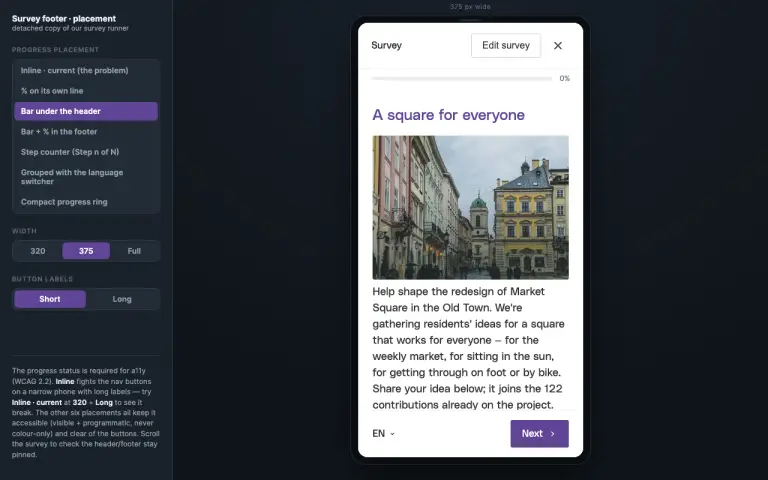
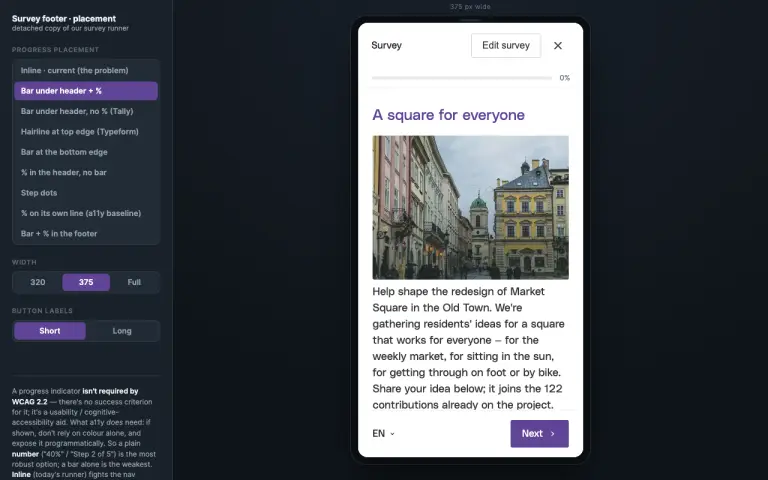
survey-form: rework progress-placement options + correct the WCAG claim
Drop the ring, step-counter and language-group placements. Keep inline (the
problem), % on its own line, bar-under-header (+%) and footbar. Add five: a
no-number bar under the header (Tally), a hairline at the top edge (Typeform),
a bar pinned to the card's bottom edge, the % in the header with no bar, and
discrete step dots (filled vs hollow, never colour-only; SR gets 'Step n of N').

Fix the bar-under-header separator: the hairline now sits BELOW the progress so
the title + bar read as one unit. Correct the note — a progress indicator is NOT
required by WCAG 2.2 (no SC); it's a usability/cognitive aid. If shown it must be
programmatic and not colour-only, so a plain number is the most robust option.

diff --git a/playground/survey-form/govocal-survey.css b/playground/survey-form/govocal-survey.css
@@ -390,63 +390,94 @@
     .sv-foot__ring::before { content: ""; grid-area: 1 / 1; width: 30px; height: 30px; border-radius: 50%; background: #fff; }
     .sv-foot__ring-num { grid-area: 1 / 1; z-index: 1; font-size: 10px; font-weight: 700; color: var(--gv-text-secondary); }
 
-    /* Step counter (step) ----------------------------------------------------- */
+    /* Step counter (reused as SR-only "Step n of N" text for the stepdots variant) -- */
     .sv-foot__step { font-size: var(--gv-fs-s); font-weight: 500; color: var(--gv-text-secondary); white-space: nowrap; }
 
+    /* Card-edge bar (typeform = top edge / bottomedge = bottom edge). Absolutely
+       positioned; the card's overflow:hidden clips it to the rounded corners. */
+    .sv-card { position: relative; }
+    .sv-edge { display: none; position: absolute; left: 0; right: 0; z-index: 5;
+      height: 3px; background: var(--gv-grey-200); }
+    .sv-edge__fill { display: block; height: 100%; width: 0; background: var(--gv-tenant-primary);
+      transition: width 220ms ease-out; }
+
+    /* Header numeral (headernum) — the % rides in the titlebar, no bar at all. */
+    .sv-titlebar__pct { display: none; flex: 0 0 auto; margin-left: 10px;
+      font-size: var(--gv-fs-s); font-weight: 600; color: var(--gv-text-secondary); white-space: nowrap; }
+
+    /* Step dots (stepdots) — discrete, fill-not-colour (done = filled, to-do = hollow)
+       so the state never rests on hue alone (1.4.1). SR users get the .sv-foot__step text. */
+    .sv-dots { display: none; flex: 0 0 auto; align-items: center; gap: 7px; padding: 12px 22px; }
+    .sv-dots__dot { width: 9px; height: 9px; border-radius: 50%; flex: 0 0 auto; box-sizing: border-box;
+      background: transparent; border: 1.5px solid var(--gv-grey-400); }
+    .sv-dots__dot.is-done { background: var(--gv-tenant-primary); border-color: var(--gv-tenant-primary); }
+
+    /* Visually-hidden helper — keeps a status readable to AT while a visual stands in. */
+    .sv-sr-only { position: absolute !important; width: 1px; height: 1px; padding: 0;
+      margin: -1px; overflow: hidden; clip: rect(0 0 0 0); white-space: nowrap; border: 0; }
+
     /* The base kit collapses the footer row into a full-width COLUMN at ≤480 (line ~249)
-       and reorders lang/pct. For the redesigned variants we want a real horizontal
+       and reorders lang/pct. For every redesigned variant we want a real horizontal
        action row that wraps only when it must, so re-assert row direction + explicit
-       child order. Specificity (0,2,0) beats the kit's media rule (0,1,0), no !important.
-       ('inline' is intentionally NOT listed — it keeps the kit's current mobile
-       behaviour so it still demonstrates the problem.) */
-    .sv-card[data-layout="stacked"]   .sv-foot__row,
-    .sv-card[data-layout="topbar"]    .sv-foot__row,
-    .sv-card[data-layout="footbar"]   .sv-foot__row,
-    .sv-card[data-layout="step"]      .sv-foot__row,
-    .sv-card[data-layout="langgroup"] .sv-foot__row,
-    .sv-card[data-layout="ring"]      .sv-foot__row {
+       child order. `[data-layout]:not([data-layout="inline"])` covers all variants (and
+       any future one) in one rule; specificity (0,4,0) beats the kit's media rule (0,1,0),
+       no !important. 'inline' is intentionally excluded — it keeps the kit's current
+       mobile behaviour so it still demonstrates the problem. */
+    .sv-card[data-layout]:not([data-layout="inline"]) .sv-foot__row {
       flex-direction: row; flex-wrap: wrap; align-items: center; row-gap: 12px;
     }
-    /* The language switcher is fixed-size in every variant; the nav group grows to the
-       right and wraps as a unit only when the row can't hold it. */
-    .sv-card[data-layout="stacked"]   .sv-foot__lang,
-    .sv-card[data-layout="topbar"]    .sv-foot__lang,
-    .sv-card[data-layout="footbar"]   .sv-foot__lang,
-    .sv-card[data-layout="step"]      .sv-foot__lang,
-    .sv-card[data-layout="langgroup"] .sv-foot__lang,
-    .sv-card[data-layout="ring"]      .sv-foot__lang { flex: 0 0 auto; order: 1; }
-    .sv-card[data-layout="stacked"]   .sv-foot__nav,
-    .sv-card[data-layout="topbar"]    .sv-foot__nav,
-    .sv-card[data-layout="footbar"]   .sv-foot__nav,
-    .sv-card[data-layout="step"]      .sv-foot__nav,
-    .sv-card[data-layout="langgroup"] .sv-foot__nav,
-    .sv-card[data-layout="ring"]      .sv-foot__nav {
+    .sv-card[data-layout]:not([data-layout="inline"]) .sv-foot__lang { flex: 0 0 auto; order: 1; }
+    .sv-card[data-layout]:not([data-layout="inline"]) .sv-foot__nav {
       flex: 1 1 auto; order: 9; justify-content: flex-end; flex-wrap: wrap; row-gap: 8px;
     }
 
-    /* 1 · stacked — % on its own centred line above the action row (real GoVocal). */
+    /* 1 · stacked — % on its own centred line above the action row (real GoVocal). This
+          plain-numeral placement is also the most accessible: a text % conveys progress
+          without any colour-only bar, which is all WCAG actually needs. */
     .sv-card[data-layout="stacked"] .sv-foot__pct { order: 0; flex: 0 0 100%; text-align: center; }
 
-    /* 2 · topbar — slim determinate bar under the header; footer holds only lang+nav.
-          Progress stays visible while the body scrolls (the header is pinned). */
-    .sv-card[data-layout="topbar"] .sv-hbar { display: flex; }
+    /* 2 · topbar — slim determinate bar + % under the header; footer holds only lang+nav.
+          The hairline reads BELOW the progress (the bar sits flush under the title), so
+          the title and its progress feel like one unit. Header stays pinned while scrolling. */
+    .sv-card[data-layout="topbar"] .sv-titlebar { border-bottom: 0; }
+    .sv-card[data-layout="topbar"] .sv-hbar { display: flex; border-bottom: 1px solid var(--gv-grey-200); }
     .sv-card[data-layout="topbar"] .sv-foot__pct { display: none; }
 
-    /* 3 · footbar — thin bar across the footer top + centred % caption, then actions.
-          Recolour the kit's gold accent to the tenant primary so it matches the
-          header-bar/ring variants and clears 1.4.11 non-text contrast on the grey track. */
+    /* 3 · footbar — thin bar across the footer top + centred % caption, then actions. */
     .sv-card[data-layout="footbar"] .sv-progress { display: block; }
     .sv-card[data-layout="footbar"] .sv-progress__bar { background: var(--gv-tenant-primary); }
     .sv-card[data-layout="footbar"] .sv-foot__pct { order: 0; flex: 0 0 100%; text-align: center; }
 
-    /* 4 · step — a "Step n of N" counter leads the row (shorter than %, always fits). */
-    .sv-card[data-layout="step"] .sv-foot__step { display: inline; order: 0; flex: 0 0 auto; }
-    .sv-card[data-layout="step"] .sv-foot__pct { display: none; }
+    /* 4 · tally — Tally's pattern: a full-bleed bar flush under the title, NO numeral,
+          hairline below. The bar alone signals progress (we keep the SR % via the
+          footer's role=progressbar siblings, so it's never colour-only for AT). */
+    .sv-card[data-layout="tally"] .sv-titlebar { border-bottom: 0; }
+    .sv-card[data-layout="tally"] .sv-hbar { display: flex; padding: 0; border-bottom: 1px solid var(--gv-grey-200); }
+    .sv-card[data-layout="tally"] .sv-hbar__track { height: 6px; border-radius: 0; }
+    .sv-card[data-layout="tally"] .sv-hbar__num { display: none; }
+    .sv-card[data-layout="tally"] .sv-foot__pct { display: none; }
 
-    /* 5 · langgroup — % rides next to the language switcher (left cluster), nav right.
-          Tying it to lang's width means it never competes with the buttons. */
-    .sv-card[data-layout="langgroup"] .sv-foot__pct { order: 2; flex: 0 0 auto; text-align: left; }
+    /* 5 · typeform — Typeform's pattern: a 3px hairline pinned to the very top edge of
+          the card, no numeral (Typeform dropped the % — it confused respondents). */
+    .sv-card[data-layout="typeform"] .sv-edge { display: block; top: 0; }
+    .sv-card[data-layout="typeform"] .sv-foot__pct { display: none; }
 
-    /* 6 · ring — a compact circular dial (numeral inside) leads the row; very small footprint. */
-    .sv-card[data-layout="ring"] .sv-foot__ring { display: grid; order: 0; }
-    .sv-card[data-layout="ring"] .sv-foot__pct { display: none; }
+    /* 6 · bottomedge — a thin bar pinned to the bottom edge of the card (mobile-native,
+          out of the way of both header and action row). */
+    .sv-card[data-layout="bottomedge"] .sv-edge { display: block; bottom: 0; height: 4px; }
+    .sv-card[data-layout="bottomedge"] .sv-foot__pct { display: none; }
+
+    /* 7 · headernum — just the numeral, in the titlebar next to the title. Answers
+          "would the number suffice?": yes — top-anchored, glanceable, zero footer cost. */
+    .sv-card[data-layout="headernum"] .sv-titlebar__pct { display: inline; }
+    .sv-card[data-layout="headernum"] .sv-foot__pct { display: none; }
+
+    /* 8 · stepdots — discrete dots under the header for short, known-length flows; the
+          "Step n of N" text is kept SR-only so assistive tech still hears the count. */
+    .sv-card[data-layout="stepdots"] .sv-dots { display: flex; }
+    .sv-card[data-layout="stepdots"] .sv-foot__step { display: inline; }
+    .sv-card[data-layout="stepdots"] .sv-foot__step,
+    .sv-card[data-layout="stepdots"] .sv-titlebar { border-bottom: 0; }
+    .sv-card[data-layout="stepdots"] .sv-foot__step { position: absolute !important; width: 1px; height: 1px;
+      padding: 0; margin: -1px; overflow: hidden; clip: rect(0 0 0 0); white-space: nowrap; border: 0; }
+    .sv-card[data-layout="stepdots"] .sv-foot__pct { display: none; }

diff --git a/playground/survey-form/govocal-survey.js b/playground/survey-form/govocal-survey.js
@@ -201,11 +201,17 @@
     var pbar = ' role="progressbar" aria-valuemin="0" aria-valuemax="100" aria-valuenow="0" aria-valuetext="0% complete"';
     return '<section class="sv-card" aria-label="' + esc(title || 'Survey') + '">' +
       '<div class="sv-titlebar"><h1>' + esc(title || 'Survey') + '</h1>' +
+      // Header numeral (headernum variant) — the % rides in the titlebar, no bar at all.
+      '<span class="sv-titlebar__pct" role="status" aria-live="polite" aria-atomic="true">0%</span>' +
       '<button class="sv-titlebar__edit" type="button">Edit survey</button>' +
       '<button class="sv-close" type="button" aria-label="Close survey">' +
       '<svg viewBox="0 0 24 24" aria-hidden="true"><path d="M19 6.41 17.59 5 12 10.59 6.41 5 5 6.41 10.59 12 5 17.59 6.41 19 12 13.41 17.59 19 19 17.59 13.41 12z"/></svg></button></div>' +
-      // Header progress bar (topbar variant) — pinned under the titlebar, stays visible while scrolling.
+      // Header progress bar (topbar / tally variants) — pinned under the titlebar, stays visible while scrolling.
       '<div class="sv-hbar"' + pbar + '><span class="sv-hbar__track"><span class="sv-hbar__fill"></span></span><span class="sv-hbar__num">0%</span></div>' +
+      // Card-edge hairline bar (typeform = top edge / bottomedge = bottom edge), absolutely positioned.
+      '<div class="sv-edge"' + pbar + '><span class="sv-edge__fill"></span></div>' +
+      // Discrete step dots (stepdots variant) — built in mount(); aria-hidden, SR uses .sv-foot__step.
+      '<div class="sv-dots" aria-hidden="true"></div>' +
       '<form class="sv-body" novalidate></form>' +
       '<div class="sv-foot">' +
       '<div class="sv-progress"' + pbar + '><div class="sv-progress__bar"></div></div>' +
@@ -239,6 +245,9 @@
         ringEl = root.querySelector('.sv-foot__ring'),
         ringNum = root.querySelector('.sv-foot__ring-num'),
         stepEl = root.querySelector('.sv-foot__step'),
+        edgeFill = root.querySelector('.sv-edge__fill'),
+        titlePct = root.querySelector('.sv-titlebar__pct'),
+        dotsEl = root.querySelector('.sv-dots'),
         progressbars = [].slice.call(root.querySelectorAll('[role="progressbar"]'));
     // Button labels are configurable (opts.labels) so a harness can stress-test how
     // long labels fit the footer at narrow widths. Defaults match the real runner.
@@ -248,6 +257,15 @@
     var step = 0, total = form.pages.length;
     var lastContent = total - 1;
     while (lastContent > 0 && form.pages[lastContent].kind === 'thankyou') lastContent--;
+
+    // Build the step dots once (one per content page) for the stepdots variant.
+    var dotSpans = [];
+    if (dotsEl) {
+      var dN = lastContent + 1, dh = '';
+      for (var di = 0; di < dN; di++) dh += '<span class="sv-dots__dot"></span>';
+      dotsEl.innerHTML = dh;
+      dotSpans = [].slice.call(dotsEl.children);
+    }
 
     function show() {
       var p = form.pages[step];
@@ -260,10 +278,16 @@
       pctEl.textContent = pctTxt;
       if (hbarFill) hbarFill.style.width = pct + '%';
       if (hbarNum) hbarNum.textContent = pct + '%';
+      if (edgeFill) edgeFill.style.width = pct + '%';
+      if (titlePct) titlePct.textContent = pct + '%';
       if (ringEl) { ringEl.style.setProperty('--p', pct); if (ringNum) ringNum.textContent = pct + '%'; }
+      var sNum = Math.min(step, lastContent) + 1, sTot = lastContent + 1;
       if (stepEl) {
-        var sNum = Math.min(step, lastContent) + 1, sTot = lastContent + 1;
         stepEl.textContent = (p.kind === 'thankyou') ? 'Complete' : ('Step ' + sNum + ' of ' + sTot);
+      }
+      if (dotSpans.length) {
+        var done = (p.kind === 'thankyou') ? dotSpans.length : sNum;
+        dotSpans.forEach(function (d, i) { d.classList.toggle('is-done', i < done); });
       }
       progressbars.forEach(function (el) { el.setAttribute('aria-valuenow', pct); el.setAttribute('aria-valuetext', pctTxt); });
       prevBtn.style.visibility = (step === 0 || p.kind === 'thankyou') ? 'hidden' : 'visible';

diff --git a/playground/survey-form/index.html b/playground/survey-form/index.html
@@ -123,13 +123,15 @@
     <div class="grp">
       <label>Progress placement</label>
       <div class="seg seg--col" id="seg-layout" role="group" aria-label="Progress placement">
-        <button data-v="inline"    aria-pressed="false">Inline · current (the problem)</button>
-        <button data-v="stacked"   aria-pressed="false">% on its own line</button>
-        <button data-v="topbar"    aria-pressed="true">Bar under the header</button>
-        <button data-v="footbar"   aria-pressed="false">Bar + % in the footer</button>
-        <button data-v="step"      aria-pressed="false">Step counter (Step n of N)</button>
-        <button data-v="langgroup" aria-pressed="false">Grouped with the language switcher</button>
-        <button data-v="ring"      aria-pressed="false">Compact progress ring</button>
+        <button data-v="inline"     aria-pressed="false">Inline · current (the problem)</button>
+        <button data-v="topbar"     aria-pressed="true">Bar under header + %</button>
+        <button data-v="tally"      aria-pressed="false">Bar under header, no % (Tally)</button>
+        <button data-v="typeform"   aria-pressed="false">Hairline at top edge (Typeform)</button>
+        <button data-v="bottomedge" aria-pressed="false">Bar at the bottom edge</button>
+        <button data-v="headernum"  aria-pressed="false">% in the header, no bar</button>
+        <button data-v="stepdots"   aria-pressed="false">Step dots</button>
+        <button data-v="stacked"    aria-pressed="false">% on its own line (a11y baseline)</button>
+        <button data-v="footbar"    aria-pressed="false">Bar + % in the footer</button>
       </div>
     </div>
 
@@ -152,11 +154,13 @@
 
     <div class="spacer"></div>
     <p class="note">
-      The progress status is required for a11y (WCAG 2.2). <b>Inline</b> fights the nav
-      buttons on a narrow phone with long labels — try <b>Inline · current</b> at
-      <b>320</b> + <b>Long</b> to see it break. The other six placements all keep it
-      accessible (visible + programmatic, never colour-only) and clear of the buttons.
-      Scroll the survey to check the header/footer stay pinned.
+      A progress indicator <b>isn't required by WCAG 2.2</b> — there's no success criterion
+      for it; it's a usability / cognitive-accessibility aid. What a11y <i>does</i> need: if
+      shown, don't rely on colour alone, and expose it programmatically. So a plain
+      <b>number</b> ("40%" / "Step 2 of 5") is the most robust option; a bar alone is the
+      weakest. <b>Inline</b> (today's runner) fights the nav buttons on a narrow phone — try
+      <b>Inline · current</b> at <b>320</b> + <b>Long</b> to see it break. Every other
+      placement keeps progress clear of the buttons.
     </p>
   </div>
 

diff --git a/playground/survey-form/runner.html b/playground/survey-form/runner.html
@@ -114,7 +114,7 @@
 
   // Read experiment params from the URL (driven by the control shell index.html).
   var params = new URLSearchParams(location.search);
-  var LAYOUTS = ['inline','stacked','topbar','footbar','step','langgroup','ring'];
+  var LAYOUTS = ['inline','stacked','topbar','footbar','tally','typeform','bottomedge','headernum','stepdots'];
   var layout = LAYOUTS.indexOf(params.get('layout')) >= 0 ? params.get('layout') : 'inline';
   var longLabels = params.get('labels') === 'long';
   // Realistic "long" labels — the kind a city writes once the default verbs feel
